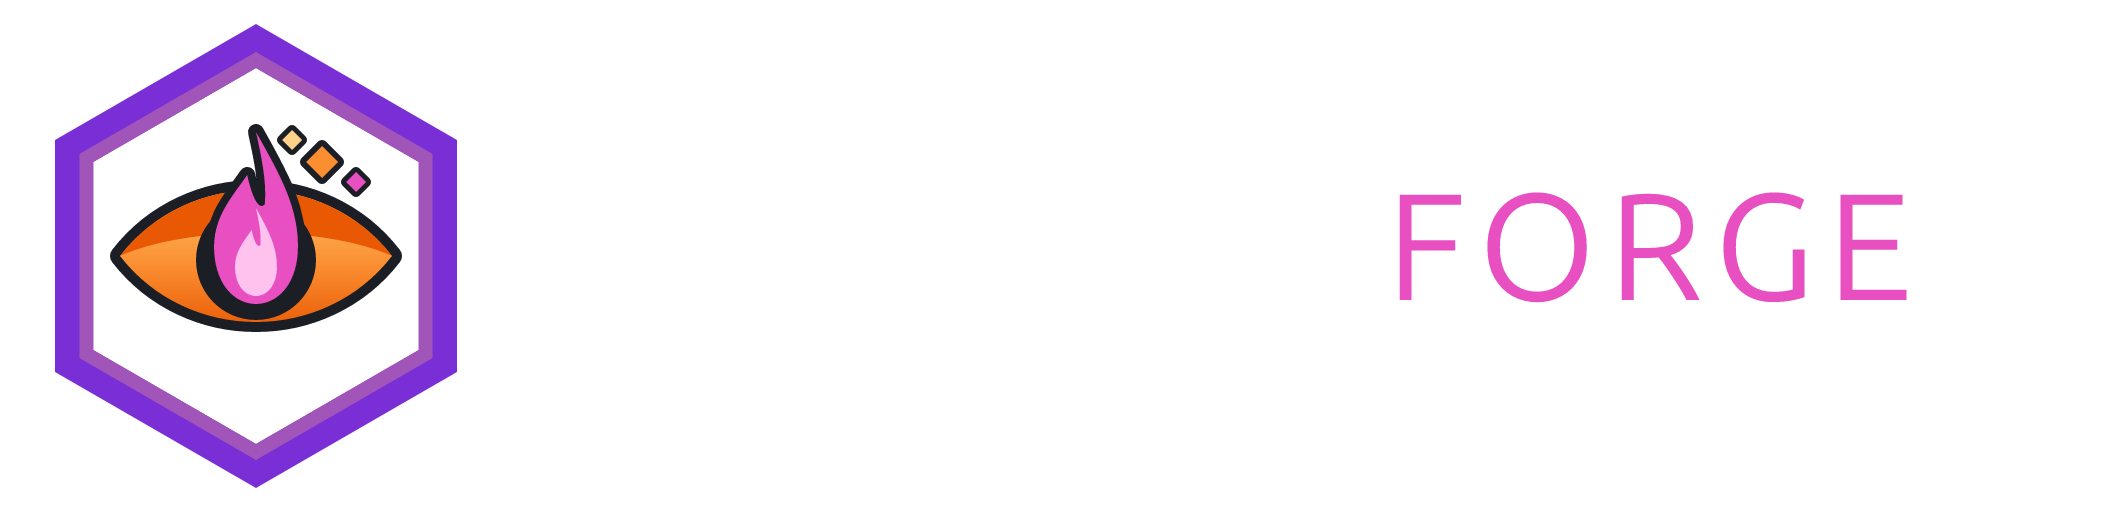
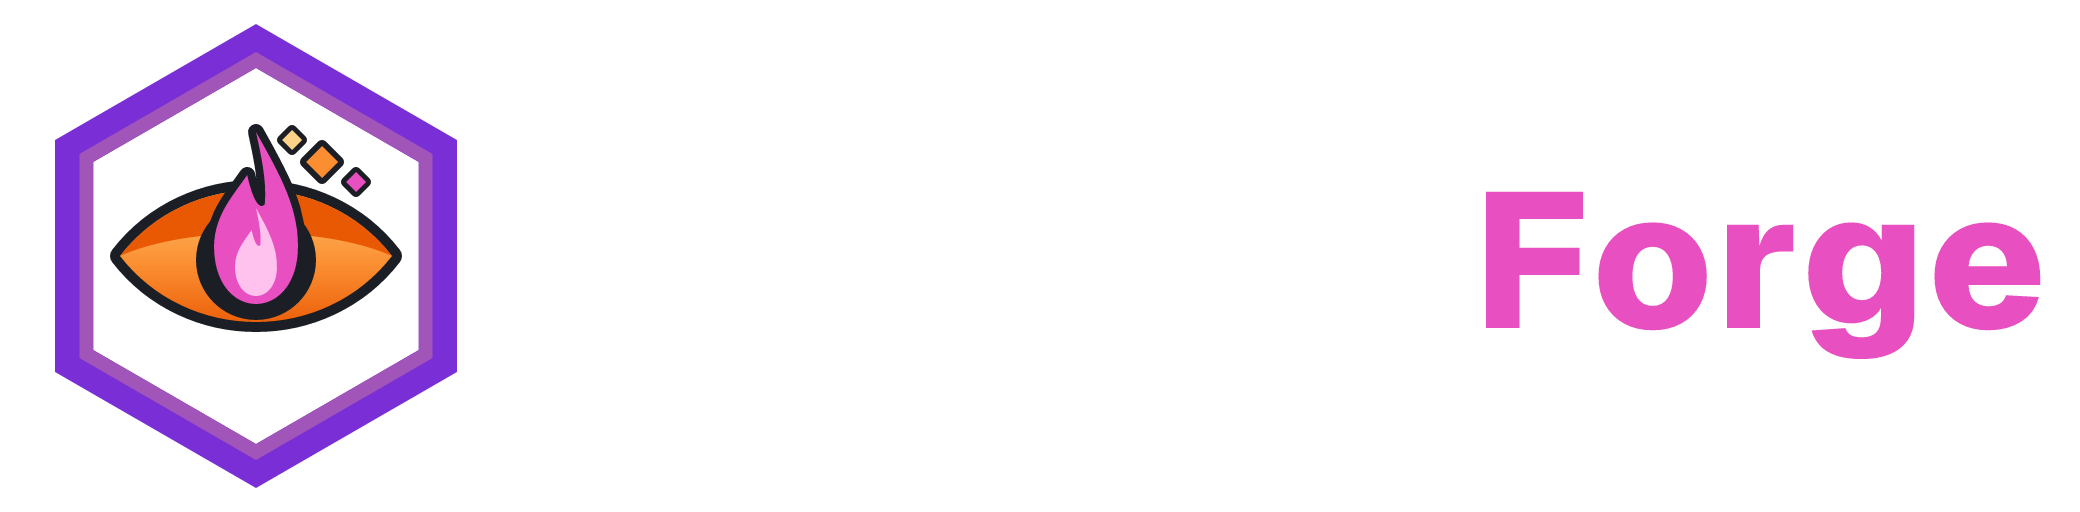
feat(brand): set the name in heavy outlined geist
- Write the name as Tenebris Forge in Geist ExtraBold, outlined from the font.
- Keep the outlines in brand/wordmark.json, made by scripts/wordmark.py.
- Add the font and its licence, and describe the name in the guide.

Changed region(s): [[0.6562, 0.375, 1.0, 0.7188], [0.0625, 0.0625, 0.2188, 0.9375], [0.0312, 0.4375, 0.0625, 0.5625]]

diff --git a/scripts/logo.py b/scripts/logo.py
@@ -12,9 +12,10 @@ Writes, in brand/:
   app-icon.svg        square with safe padding for maskable app icons
   lockup-horizontal.svg, lockup-stacked.svg
 PNGs are rendered from these with resvg (see brand/README.md). Geometry on a 256 grid; no clip paths
-in the colour master. The name uses live text: outline it before print or merchandise.
+in the colour master. The name is outlined Geist 800 (scripts/wordmark.py writes brand/wordmark.json).
 """
 
+import json
 import math
 from pathlib import Path
 
@@ -113,9 +114,18 @@ def svg(w, h, body, title="Tenebris Forge"):
             f'aria-labelledby="t"><title id="t">{title}</title>{body}</svg>\n')
 
 
-def name(x, y, size, anchor="start", color="#ffffff", accent=FLAME):
-    return (f'<text x="{x}" y="{y}" text-anchor="{anchor}" font-family="{FONT}" font-size="{size}" font-weight="800" '
-            f'letter-spacing="{size * .08:.1f}"><tspan fill="{color}">TENEBRIS </tspan><tspan fill="{accent}">FORGE</tspan></text>')
+WORDMARK = json.loads((Path(__file__).resolve().parent.parent / "brand" / "wordmark.json").read_text())
+
+
+def name(x, baseline, size, anchor="start", color="#ffffff", accent=FLAME):
+    """"Tenebris Forge" as outlines (Geist 800, scripts/wordmark.py), `size` the em in px."""
+    w = WORDMARK["words"]
+    s = size / WORDMARK["em"]
+    total = (w["Tenebris"]["width"] + WORDMARK["space"] + w["Forge"]["width"]) * s
+    x0 = x - total / 2 if anchor == "middle" else x
+    x1 = x0 + (w["Tenebris"]["width"] + WORDMARK["space"]) * s
+    return (f'<path fill="{color}" transform="translate({x0:.1f} {baseline}) scale({s:.4f})" d="{w["Tenebris"]["d"]}"/>'
+            f'<path fill="{accent}" transform="translate({x1:.1f} {baseline}) scale({s:.4f})" d="{w["Forge"]["d"]}"/>')
 
 
 if __name__ == "__main__":
@@ -132,8 +142,8 @@ if __name__ == "__main__":
                                     f'<rect width="512" height="512" fill="url(#g)"/><g transform="translate(36 36) scale(1.72)">{colour()}</g>'),
         "app-icon.svg": svg(512, 512, f'<defs>{GRADIENT}</defs><rect width="512" height="512" fill="{VOID}"/>'
                                       f'<g transform="translate(96 96) scale(1.25)">{colour(small=True)}</g>'),
-        "lockup-horizontal.svg": svg(1060, 256, defs + colour() + name(284, 150, 76)),
-        "lockup-stacked.svg": svg(560, 420, defs + f'<g transform="translate(152 0)">{colour()}</g>' + name(280, 360, 60, "middle")),
+        "lockup-horizontal.svg": svg(1040, 256, defs + colour() + name(282, 164, 96)),
+        "lockup-stacked.svg": svg(560, 400, defs + f'<g transform="translate(152 0)">{colour()}</g>' + name(280, 352, 64, "middle")),
     }
     for f, s in files.items():
         (OUT / f).write_text(s)

diff --git a/scripts/wordmark.py b/scripts/wordmark.py
@@ -1,0 +1,45 @@
+#!/usr/bin/env python3
+"""Outline the name "Tenebris Forge" in Geist (SIL Open Font Licence, the typeface of Forja's
+app) at weight 800, so the lockups carry paths instead of live text.
+
+    uv run --with 'fonttools[woff]' python3 scripts/wordmark.py
+
+Writes brand/wordmark.json: one SVG path per word on a 1000-unit em, baseline at y=0, and
+the advance widths. scripts/logo.py reads it; it does not need fontTools itself.
+"""
+
+import json
+from pathlib import Path
+
+from fontTools.pens.svgPathPen import SVGPathPen
+from fontTools.pens.transformPen import TransformPen
+from fontTools.ttLib import TTFont
+from fontTools.varLib.instancer import instantiateVariableFont
+
+ROOT = Path(__file__).resolve().parent.parent
+FONT = ROOT / "brand" / "fonts" / "geist-latin-wght-normal.woff2"
+WEIGHT = 800
+TRACKING = 10  # units of the 1000 em between letters
+
+
+def outline(font, text):
+    glyphs, cmap, hmtx = font.getGlyphSet(), font.getBestCmap(), font["hmtx"]
+    scale = 1000 / font["head"].unitsPerEm
+    pen, x = SVGPathPen(glyphs), 0.0
+    for ch in text:
+        name = cmap[ord(ch)]
+        glyphs[name].draw(TransformPen(pen, (scale, 0, 0, -scale, x, 0)))
+        x += hmtx[name][0] * scale + TRACKING
+    return pen.getCommands(), x - TRACKING
+
+
+if __name__ == "__main__":
+    font = instantiateVariableFont(TTFont(FONT), {"wght": WEIGHT})
+    words = {}
+    for word in ("Tenebris", "Forge"):
+        d, width = outline(font, word)
+        words[word] = {"d": d, "width": round(width, 1)}
+    space = font["hmtx"][font.getBestCmap()[ord(" ")]][0] * 1000 / font["head"].unitsPerEm
+    out = {"font": "Geist", "weight": WEIGHT, "em": 1000, "cap_height": 700, "space": round(space, 1), "words": words}
+    (ROOT / "brand" / "wordmark.json").write_text(json.dumps(out, indent=1) + "\n")
+    print({w: v["width"] for w, v in words.items()}, "space", round(space, 1))

diff --git a/brand/README.md b/brand/README.md
@@ -18,7 +18,14 @@ as one family. Approved on 2026-11-25.
 
 Everything is drawn by [`scripts/logo.py`](../scripts/logo.py) on a 256 grid; change the
 geometry there, never by hand in an exported file. PNGs come from the SVGs with resvg.
-The name in the lockups is live text: convert it to outlines before print or merchandise.
+
+## Name
+
+"Tenebris Forge", capital initials, in **Geist ExtraBold (800)**, the typeface of Forja's
+app: "Tenebris" in white (or ink on light backgrounds), "Forge" in the flame's magenta. The
+lockups carry it as outlines, so they look the same everywhere, print included.
+[`scripts/wordmark.py`](../scripts/wordmark.py) makes the outlines from the font in
+`fonts/` (SIL Open Font Licence, `fonts/LICENSE`); for running text, use Geist itself.
 
 ## Colours
 
